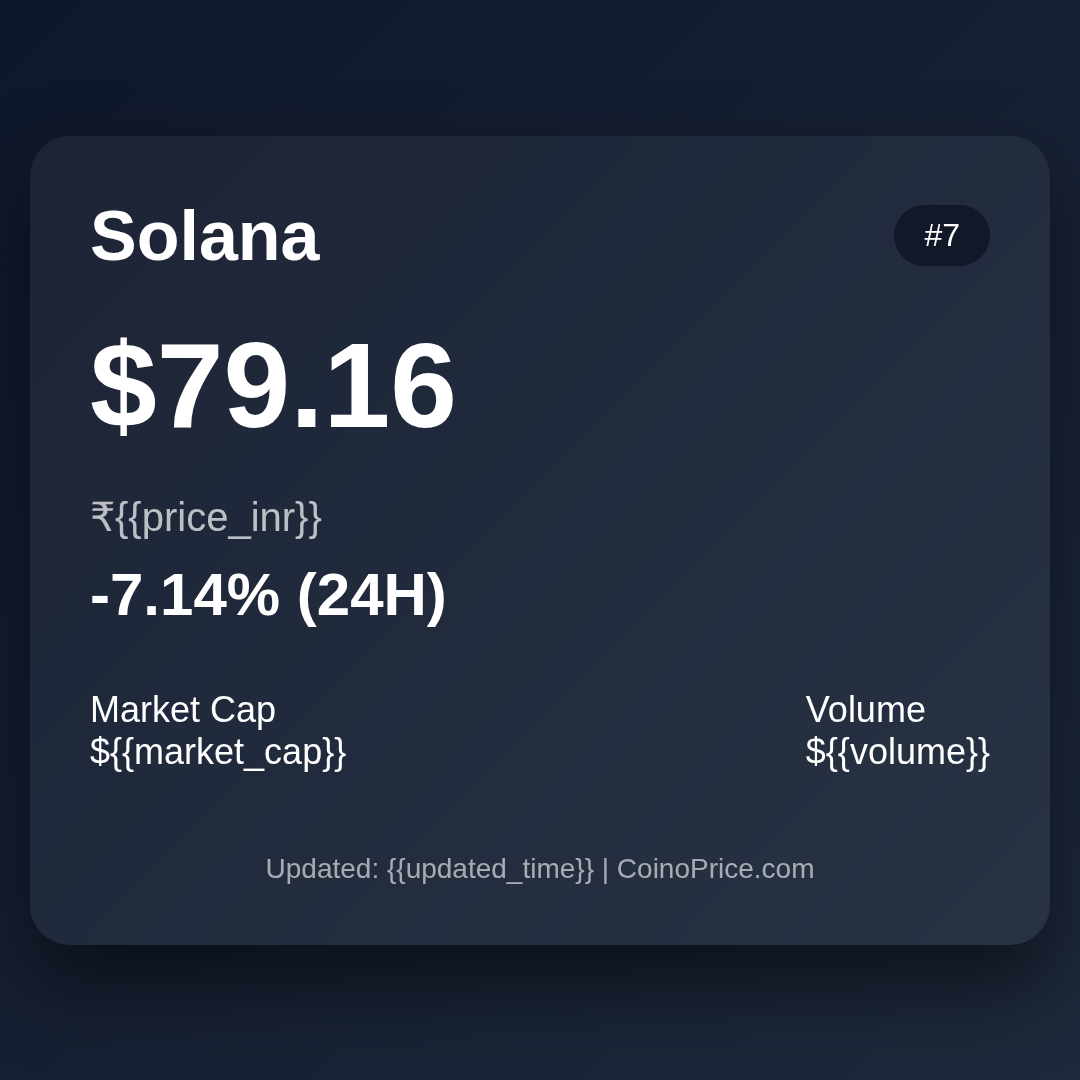
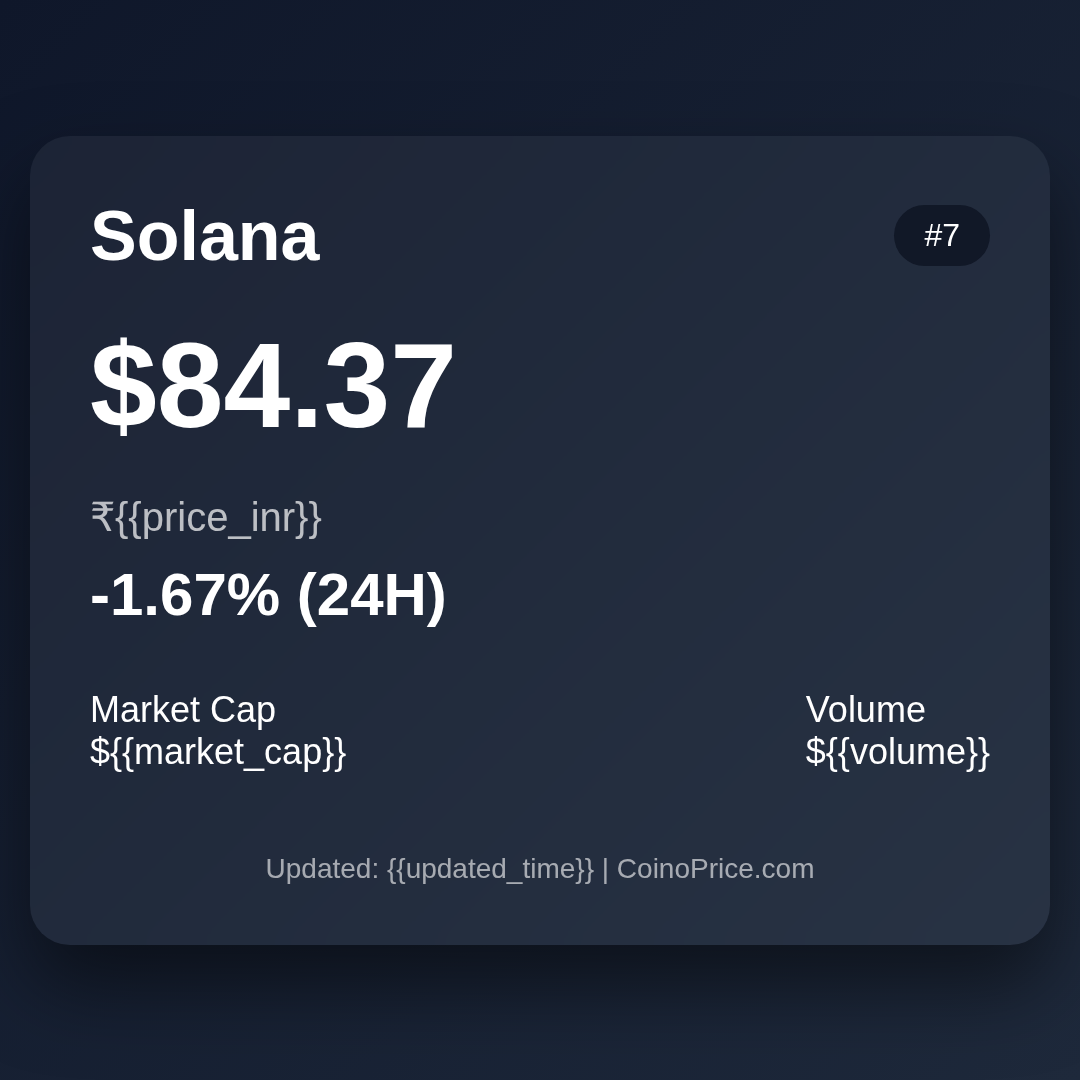
Auto crypto post update

Changed region(s): [[0.3056, 0.3056, 0.4278, 0.3972], [0.1528, 0.3056, 0.275, 0.3972], [0.0917, 0.5194, 0.2139, 0.5806]]

diff --git a/temp.html b/temp.html
@@ -79,14 +79,14 @@ body {
 <div class="card">
 
   <div class="header">
-    <div class="coin-name">USDC</div>
-    <div class="rank">#6</div>
+    <div class="coin-name">Solana</div>
+    <div class="rank">#7</div>
   </div>
 
-  <div class="price">$0.999901</div>
+  <div class="price">$84.37</div>
   <div class="inr">₹{{price_inr}}</div>
 
-  <div class="change">0.01% (24H)</div>
+  <div class="change">-1.67% (24H)</div>
 
   <div class="stats">
     <div>
